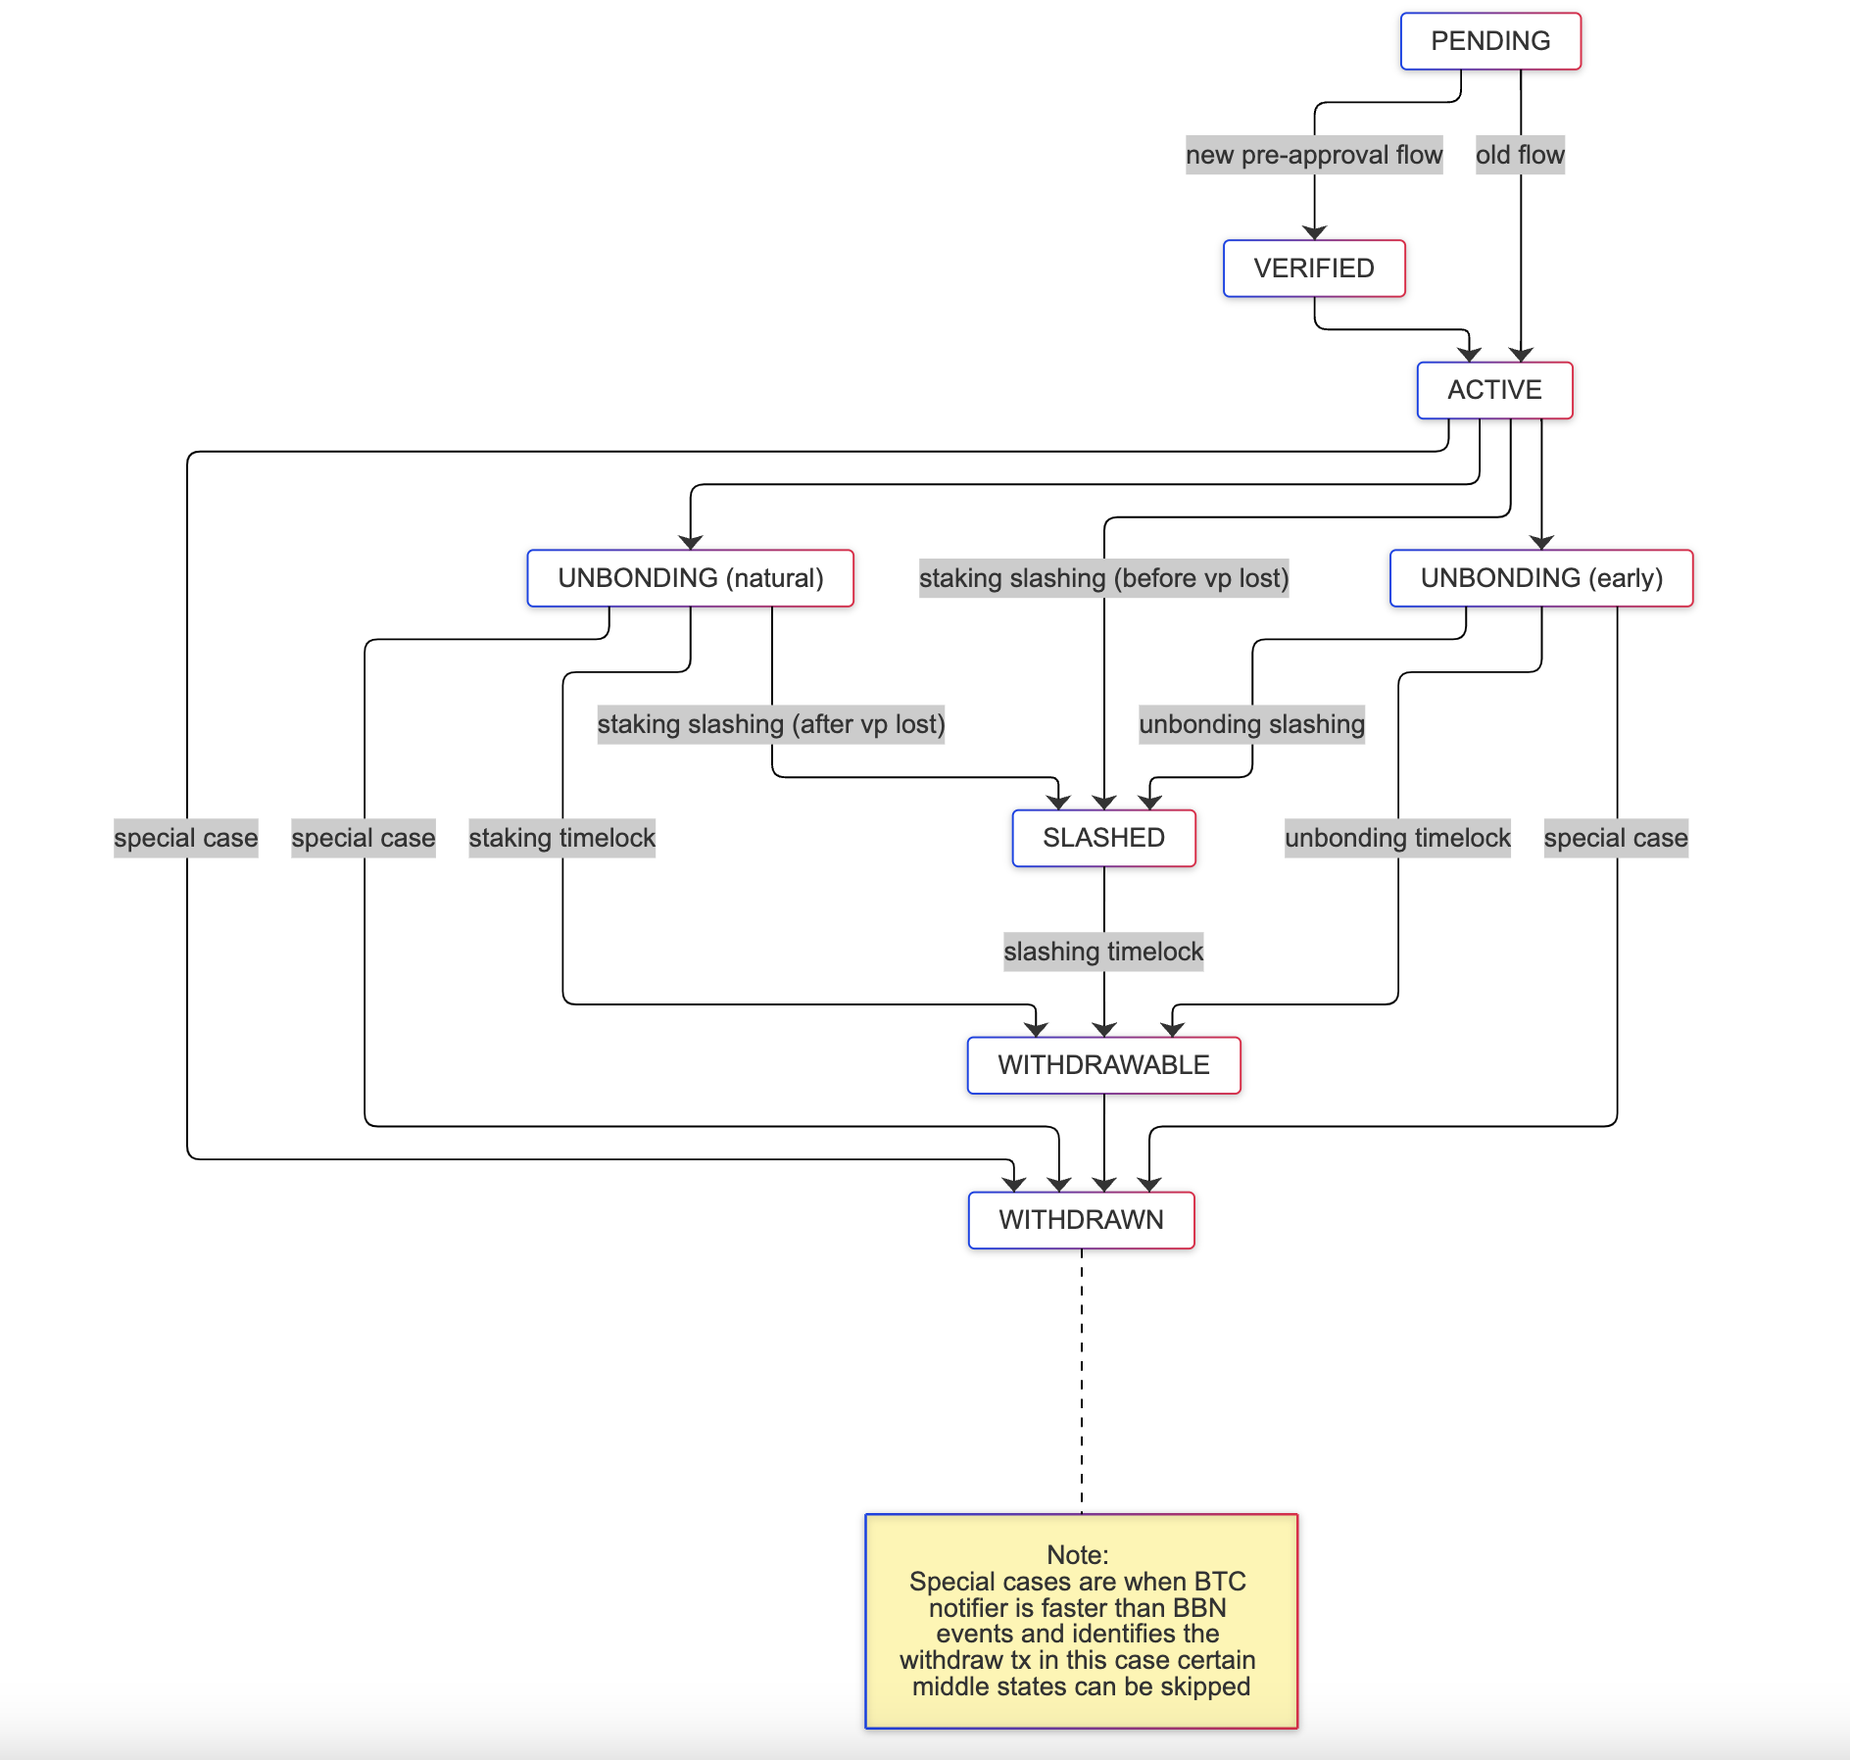
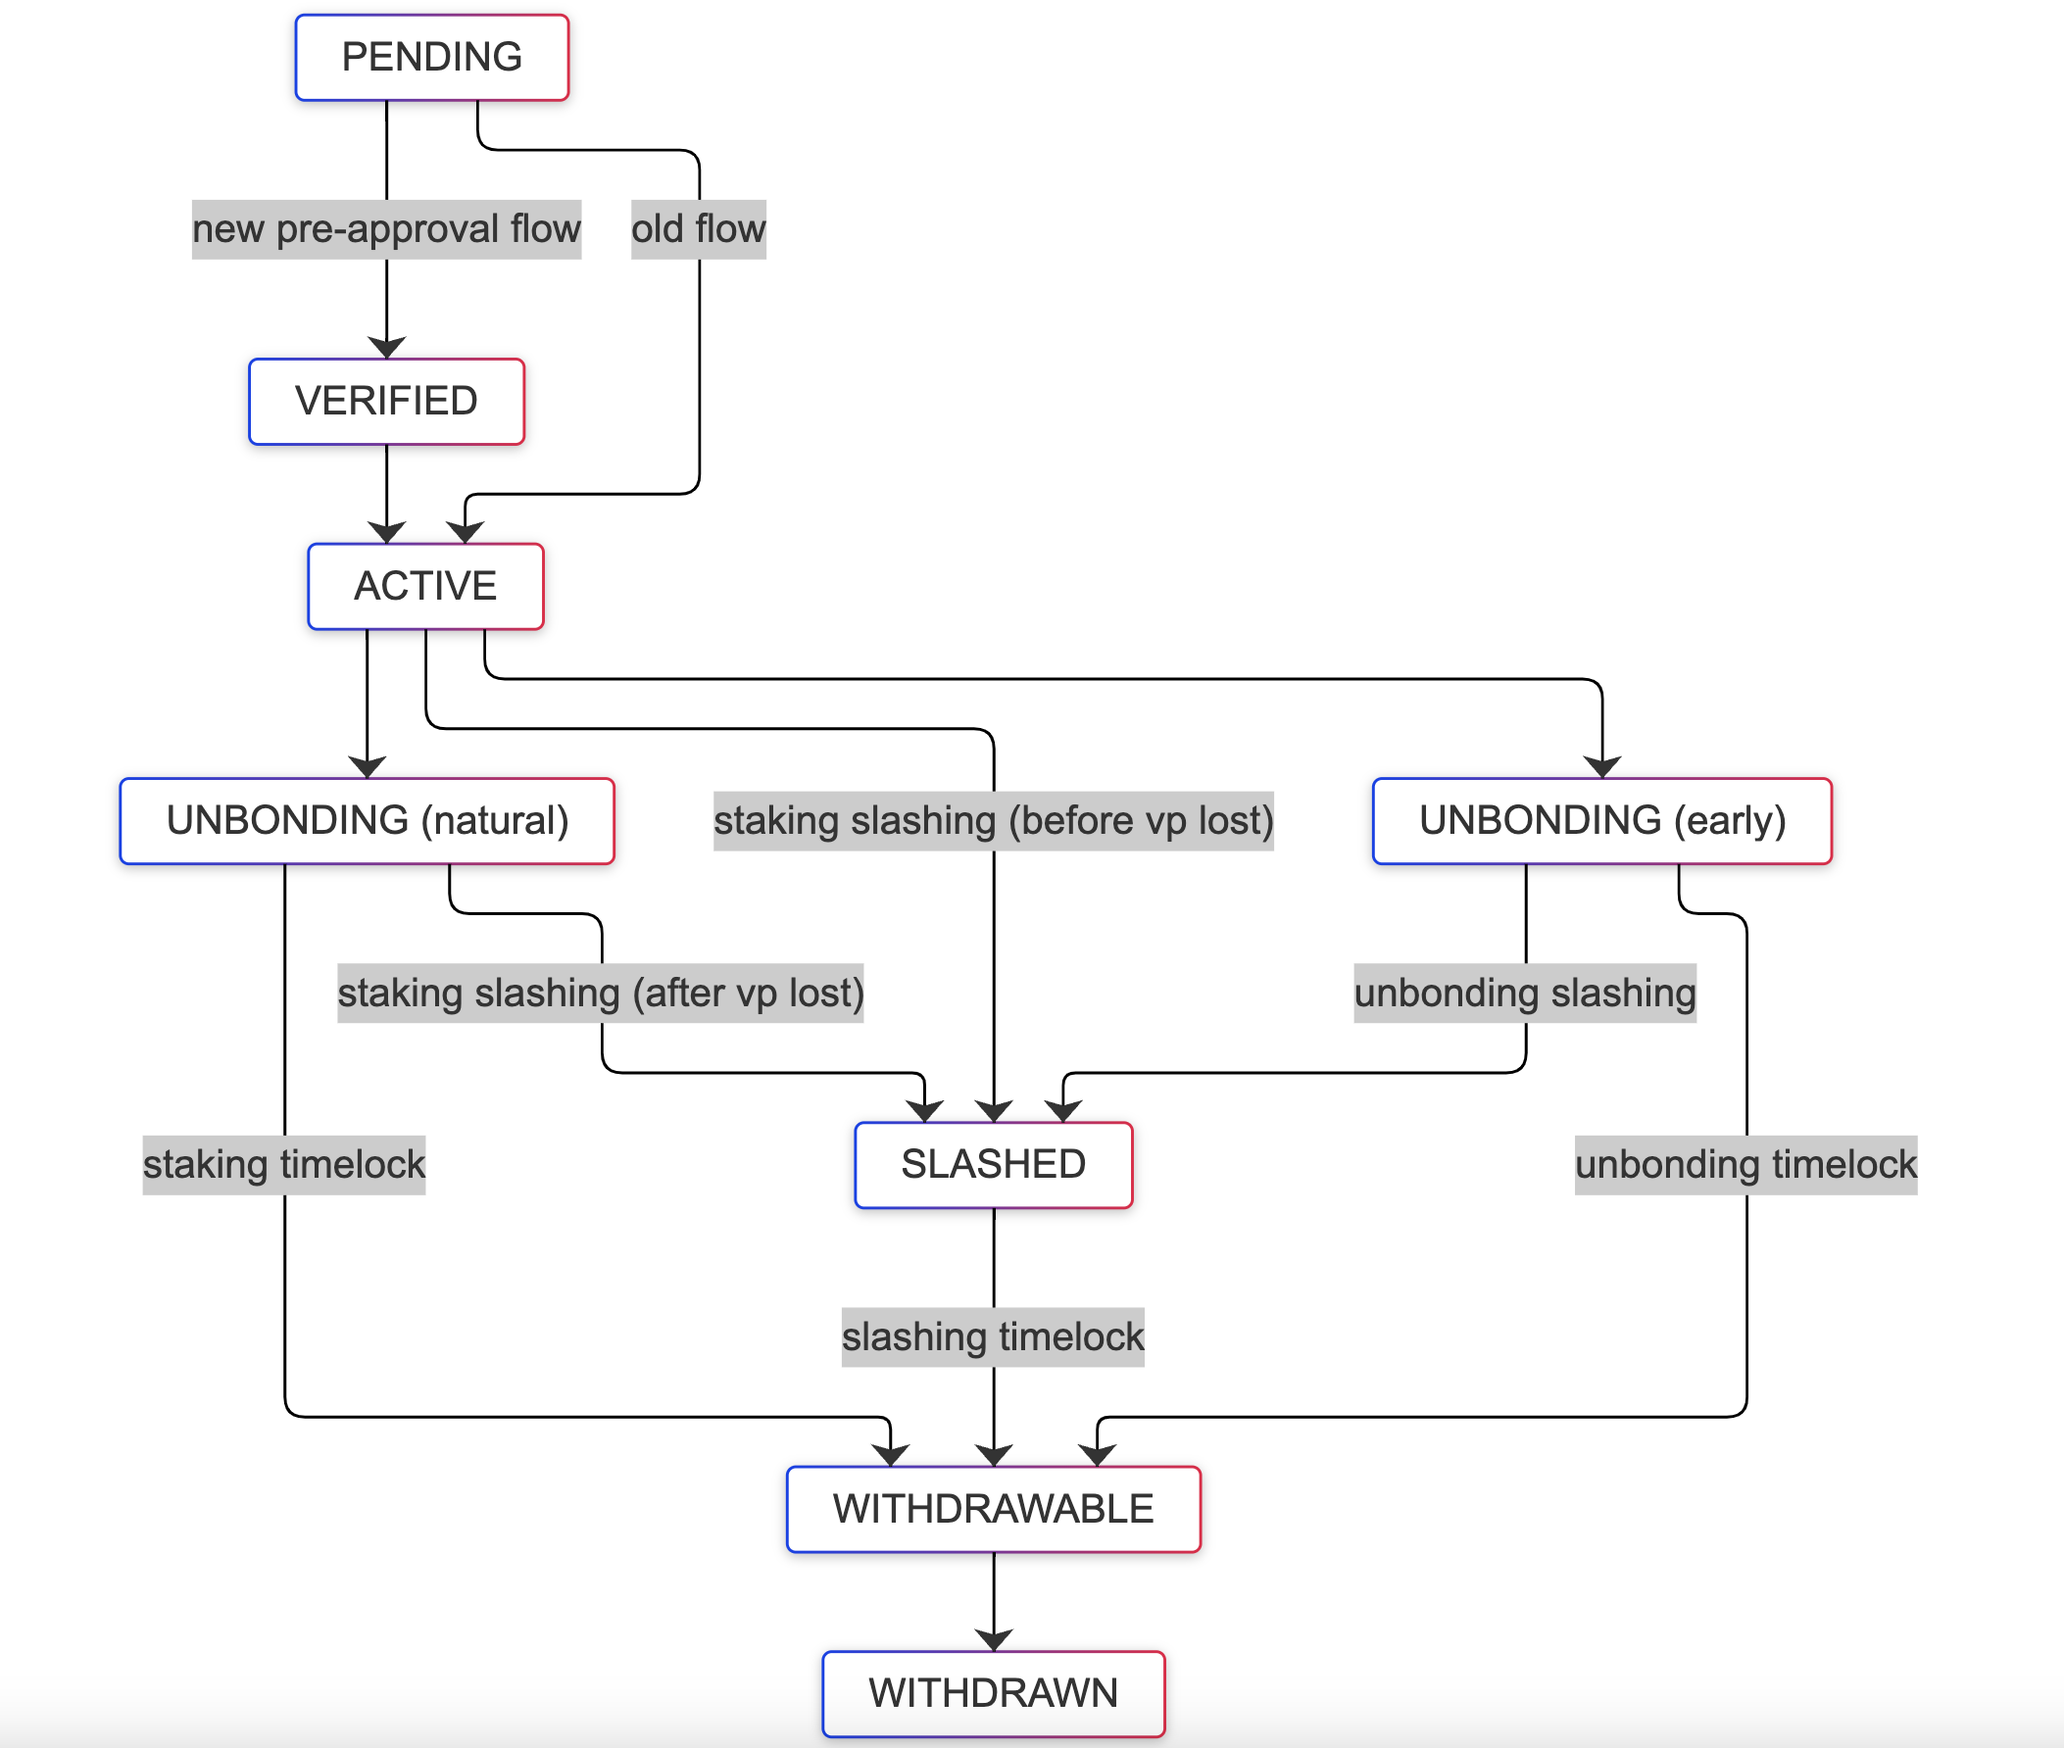
fix image

diff --git a/README.md b/README.md
@@ -95,6 +95,11 @@ make run-local
 
 Detailed documentation is available in the [docs](./docs) directory:
 
+### State Transition Overview
+![State Transition Diagram](./docs/state-transition.png)
+
+This diagram shows the state transition lifecycle in the indexer. For detailed documentation:
+
 ### Flows
 - [Startup Process](./docs/flows/startup.md)
 - [Event Processing](./docs/flows/event-processing.md)
